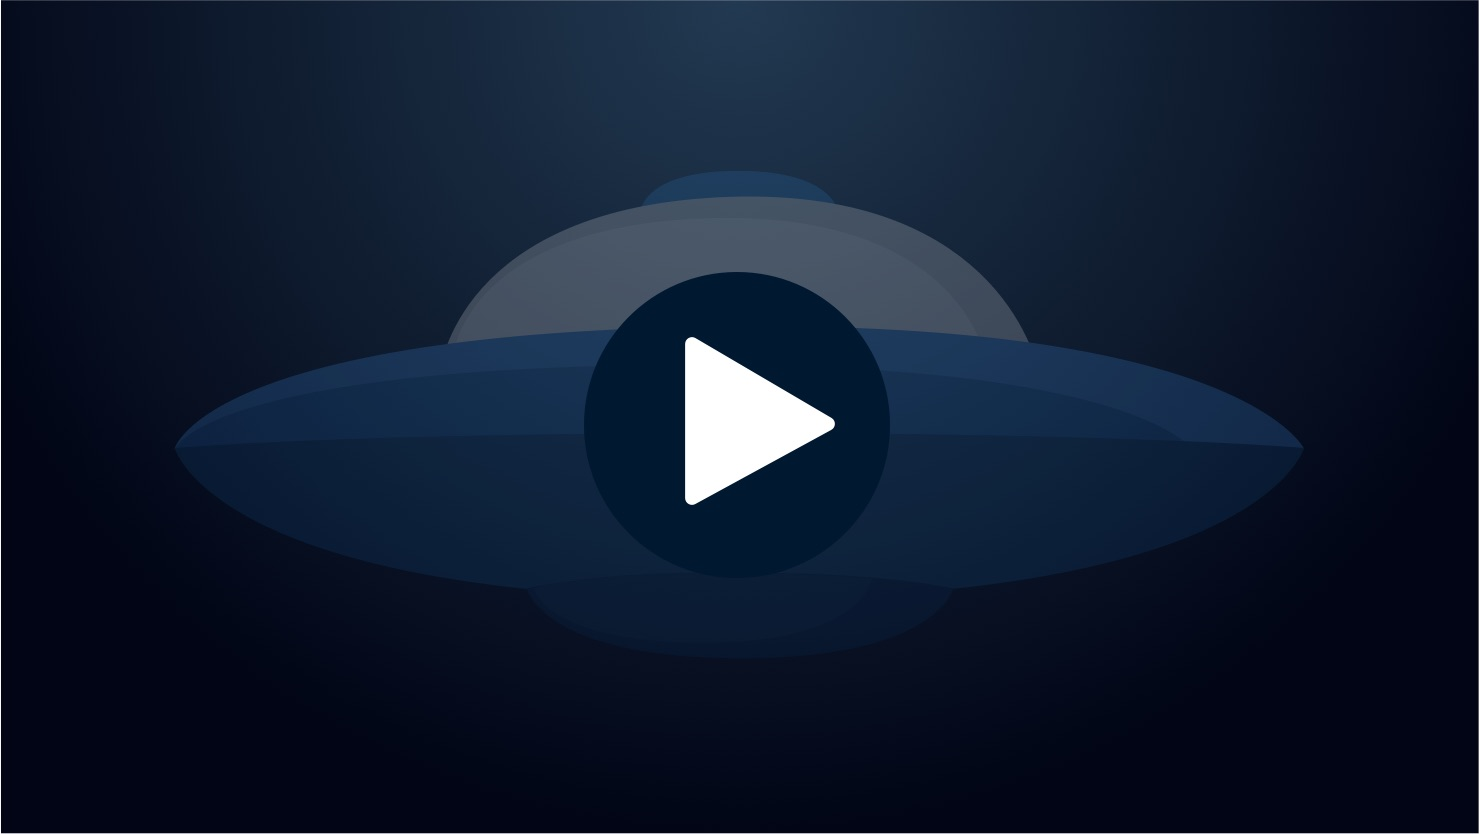
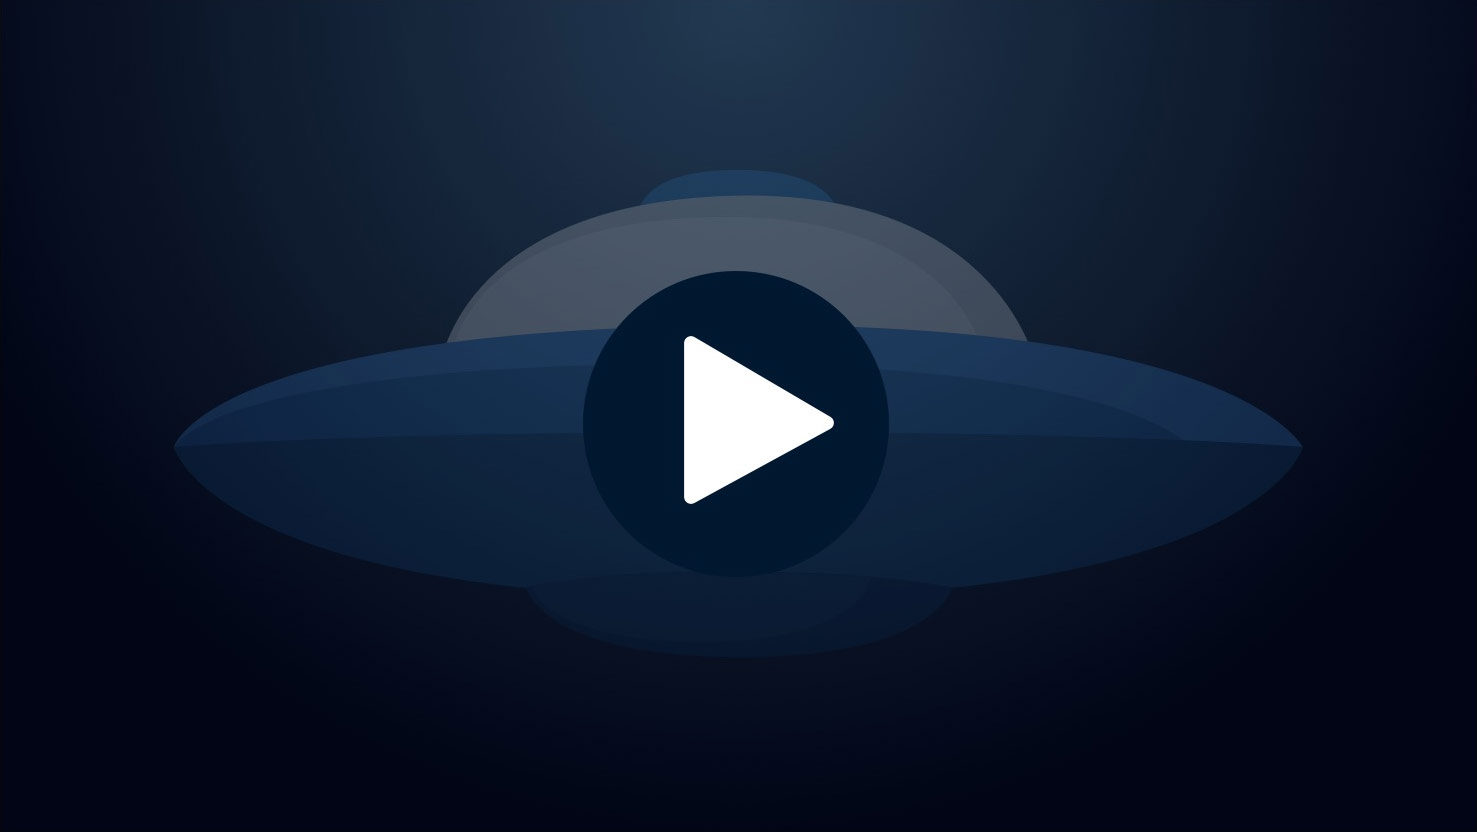
fix(component-intro): fix image border fix(component-member): fix counter colour fix(component-testimonial): change font type

Changed region(s): [[0.9966, 0.0, 1.0, 1.0]]

diff --git a/src/components/member-section/member-section.less b/src/components/member-section/member-section.less
@@ -46,7 +46,7 @@
 		left:10%;
 		.member-count{
 			font-family: @semibold-font;
-			color:@brand-default;
+			color:#000;
 			font-size: 2.5em;
 			position: absolute;
 			top:30%;

diff --git a/src/components/testimonial/testimonial.less b/src/components/testimonial/testimonial.less
@@ -28,6 +28,7 @@
 		margin-top: 1em;
 	}
 	blockquote{
+		font-family: @written-font;
 		font-size: 1.3em;
 		line-height: 1.6em;
 		margin:0;
